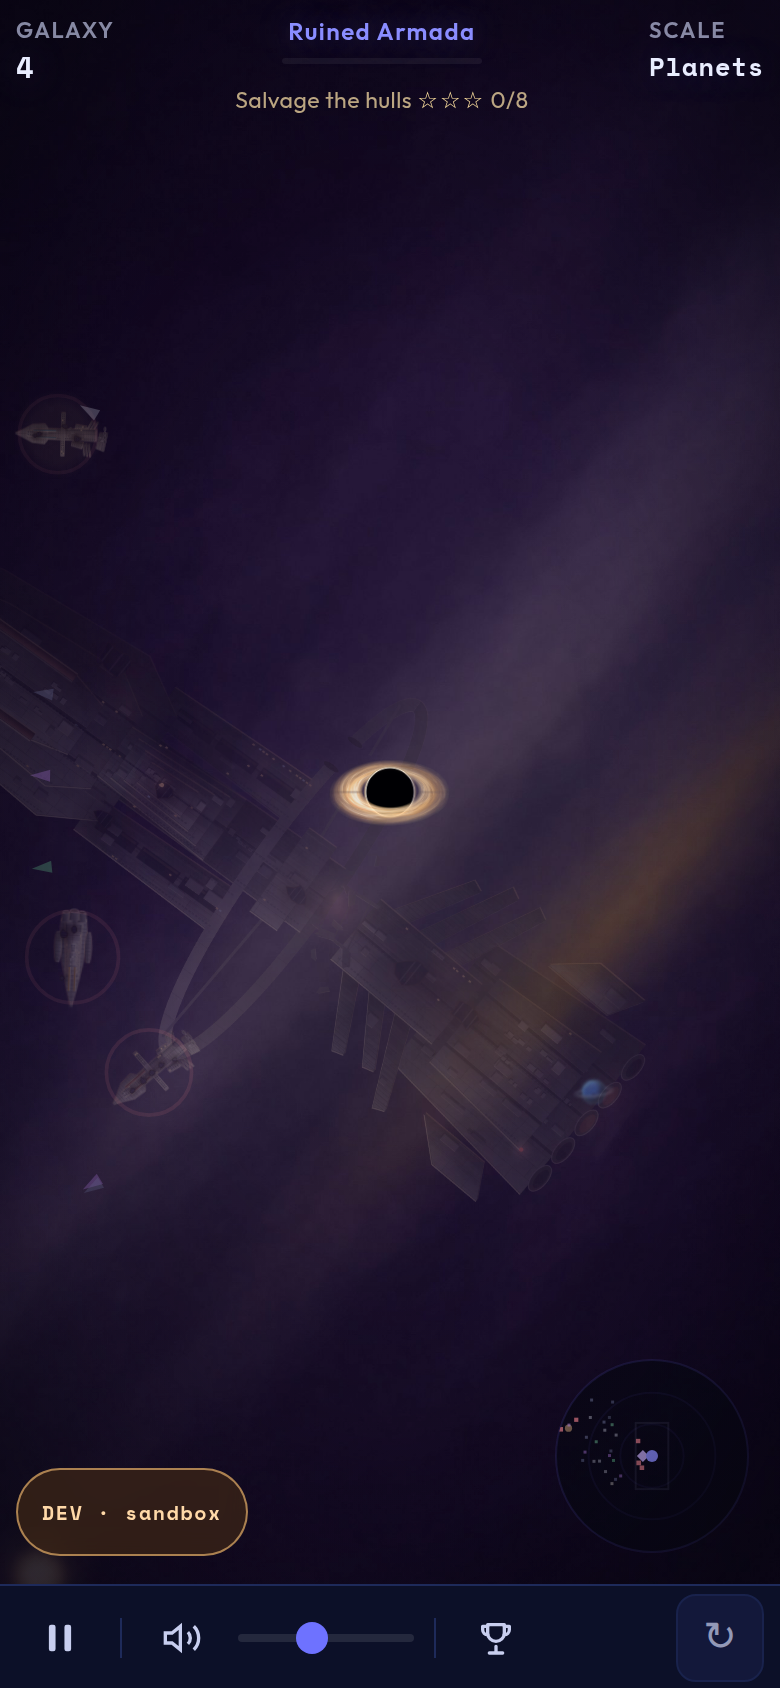
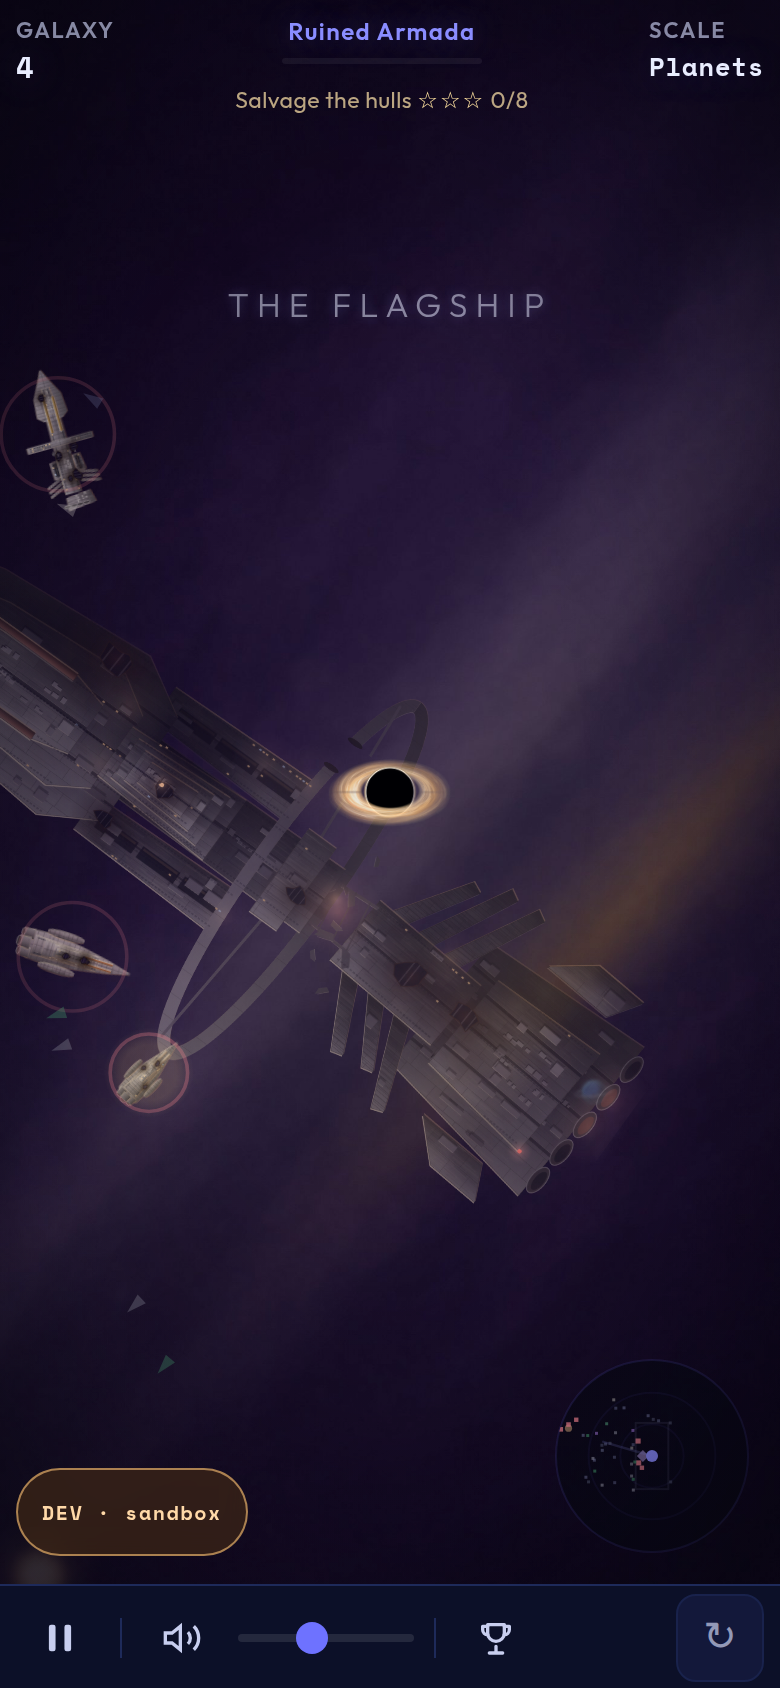
v9.7: hold the veil shots until the Flagship has faded in.
Both Armada frames now wait until the wreck is painted and past its 1.2 s fade, and the centre box is the middle 30-70% everywhere.

diff --git a/js/game.js b/js/game.js
@@ -7,7 +7,7 @@ import { createInput } from "./input.js";
 import * as audio from "./audio.js";
 import { save, setSaveSuspended, SAVE_STORAGE_KEY } from "./save.js";
 import { getBiome, biomeCatalog } from "./entities.js";
-import { onWorldEvent, onWorldTier, worldsInfo, worldsFeature } from "./worlds.js";
+import { onWorldEvent, onWorldTier, worldsInfo, worldsFeature, slicePaintReady } from "./worlds.js";
 import { layersInfo } from "./depth.js";
 import { artStats } from "./art.js";
 import { discoveriesInfo } from "./discoveries.js";
@@ -133,7 +133,7 @@ if (DEV) window.__bh = { meaty: MEATY,
   perf: () => game.perf.report(), layers: () => layersInfo(state), worlds: worldsInfo, resetPerf: () => game.perf.reset(), art: artStats, wisp: wispInfo, openLogbook: () => state.openLogbook(), finds: () => discoveriesInfo(state),
   density: densityInfo, music: audio.musicInfo, phrase: audio.phraseInfo, feature: () => worldsFeature(state),
   camera, growth: game.growth, galaxyFlow: game.galaxyFlow, fx, dev, inflow, impact, backdrop, golden, ring, absorption,
-  scene: game.scene,
+  scene: game.scene, slicePaintReady: () => slicePaintReady(state),
   feeding: game.feeding,
   worldTier: () => onWorldTier(state),
   tier: () => ({ tier: state.tier, name: tierName(state.tier), R: state.radius, anchor: state.anchorSmooth, zoom: state.zoom,

diff --git a/js/worlds.js b/js/worlds.js
@@ -1075,6 +1075,25 @@ export function drawWorldsMinimap(ctx, cx, cy, sc, time, rim = null) {
 let lastFD = 0;
 /** For tests/debug: nearest mechanic feature, in view radii */
 export function worldsFeature(state) { if (!W) return null; lastFD = featureDist(state) / viewR(state); return lastFD; }
+/**
+ * Slice-painted sprites currently in view. The Flagship is the one: it stays
+ * null until the slices finish, then fades in for 1.2 s on the wall clock.
+ * Ready means the sprite exists and that fade has finished (now > born + 1.3 s).
+ */
+export function slicePaintReady(state) {
+  const now = performance.now();
+  const pending = [];
+  if (W && W.flagship) {
+    const fl = W.flagship;
+    const x = px(fl.x), y = py(fl.y), s = wx(fl.size);
+    if (onScreen(state, x, y, s * 1.6, state.viewW, state.viewH)) {
+      const sp = FLAGSHIP.peek(fl.art.look, shipLight(), getArtQuality() !== "high", state.mode !== "zen");
+      if (!sp.ready || !(now > sp.born + 1300)) pending.push({ name: "flagship", born: sp.born, now });
+    }
+  }
+  return { ready: pending.length === 0, pending };
+}
+
 /** For the automated tests (dev builds only) */
 export function worldsInfo() {
   if (!W) return null;

diff --git a/js/core/Flagship.js b/js/core/Flagship.js
@@ -122,6 +122,13 @@ export class Flagship {
    * ring = false paints the Zen look: no habitat ring loop, only short stubs
    * at the hub (Brian: never a ring around the hole in Zen).
    */
+  /** Cache lookup only. Does not paint. born is the wall-clock time the sprite finished. */
+  peek(look, light, lite, ring = true) {
+    const key = `${look}|${light.key}|${lite ? 1 : 0}|${ring ? 1 : 0}`;
+    const s = this.cache.get(key);
+    return s ? { ready: true, born: s.born || 0 } : { ready: false, born: 0 };
+  }
+
   sprite(look, light, lite, ring = true, budgetMs = 4) {
     const key = `${look}|${light.key}|${lite ? 1 : 0}|${ring ? 1 : 0}`;
     const s = this.cache.get(key);

diff --git a/assets/sky/golden_veil.SOURCE.md b/assets/sky/golden_veil.SOURCE.md
@@ -25,15 +25,14 @@ No masks, vignettes, gradients, blurs or per-region operations.
 - Euclidean distance: 10.02.
 - For reference: a code vignette scored 1.62, and the painted backdrops score 10.3–11.2. That vignette was never shipped.
 
-**Colour deltas**, measured at screen 0.35, 390×844, golden minus plain, in RGB levels. Centre = x 120–270, y 300–544, around the hole.
+**Colour deltas.** Canvas-only `getImageData` (the page chrome is not in the figures), golden minus plain, one frozen frame after the Flagship has finished painting and fading. Centre is the middle 30–70% of the canvas on both axes, the same box `tools/v97-review.cjs` uses.
 
-| Backdrop | Whole frame (R / G / B) | Centre (R / G / B) |
-|---|---|---|
-| armada | **+17.4** / +10.5 / +1.3 | **+22.5** / +15.0 / +2.5 |
-| nursery | **+17.5** / +9.6 / +1.4 | **+22.7** / +13.5 / +2.7 |
-| meadow | +16.3 / +10.0 / +1.5 | +20.9 / +14.5 / +3.0 |
+| Backdrop | Whole frame (R / G / B) | Centre 30–70% (R / G / B) | Pixels moved >8 |
+|---|---|---|---|
+| Ruined Armada | +16.69 / +10.35 / +1.68 | +19.09 / +12.81 / +2.41 | 92.75% |
+| Planet Nursery | +17.55 / +9.84 / +1.89 | +21.69 / +12.99 / +2.83 | 94.25% |
 
-The target was +12 to +25 on R, with the centre warmed as well; both are met.
+The art-box whole-frame check (no centre box) was about +17 R / +10 G / +1.4 B, inside the +12 to +25 R target. The centre is warmed too.
 
 ## Candidates
 | Candidate | Result |
